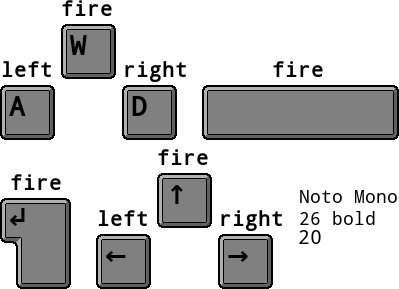
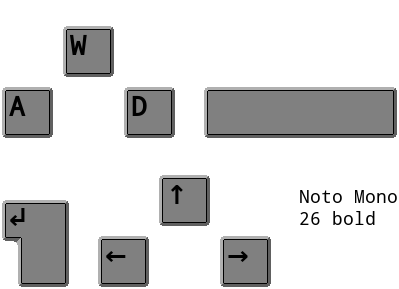
Updated styling to a more colorful experience

diff --git a/game.js b/game.js
@@ -12,7 +12,6 @@
 
 // MAYBE: Increase shooting probability for enemies, when only few are left
 
-
 import {Start} from './start.js';
 import {Engine} from './engine.js';
 import {Highscore} from './highscore.js';
@@ -39,7 +38,7 @@ function Game(options, levels) {
 	this.options = options;
 	this.levels = levels;
 
-	this.version = 'v1.0.1';
+	this.version = 'v1.1.0';
 
 	this.last_time = 0;
 
@@ -49,7 +48,7 @@ function Game(options, levels) {
 	this.frames = 0;
 	this.fps = new Text(
 		'', 2, this.options.total_size.h - 2,
-		Infinity, 'left', '#000000', 10
+		Infinity, 'left', '#ffffff', 10
 	);
 	this.show_fps = true;
 

diff --git a/text.js b/text.js
@@ -17,12 +17,12 @@
  * 		How many seconds until the text becomes inactive
  * @param {string} [alignment='left']
  * 		Text alignment (may be left, right, or center)
- * @param {string} [color='#000000']
+ * @param {string} [color='#ffffff']
  * 		Text color (may be any HTML color string)
  * @param {number} [size=24]
  * 		The font size
  */
-function Text(text, x, y, duration=Infinity, alignment='left', color='#000000', size=24) {
+function Text(text, x, y, duration=Infinity, alignment='left', color='#ffffff', size=24) {
 	this.text = text;
 	this.x = x;
 	this.y = y;

diff --git a/guielement.js b/guielement.js
@@ -45,6 +45,24 @@ function GUI_Element(x, y, type) {
 			);
 			break;
 		}
+		case 'arrow_left': {
+			this.w = 14;
+			this.h = 22;
+			this.sprite = new Sprite(
+				'sprites.png', {w: this.w, h: this.h}, 0,
+				{x: 0, y: 176}, [{x: 0, y: 0}]
+			);
+			break;
+		}
+		case 'arrow_right': {
+			this.w = 14;
+			this.h = 22;
+			this.sprite = new Sprite(
+				'sprites.png', {w: this.w, h: this.h}, 0,
+				{x: 16, y: 176}, [{x: 0, y: 0}]
+			);
+			break;
+		}
 		case 'keys1': {
 			this.w = 399;
 			this.h = 140;

diff --git a/i18n.js b/i18n.js
@@ -35,7 +35,7 @@ const all_strings = {
 		one_player: 'Én spiller',
 		two_players: 'To spillere',
 		level: 'Level ',
-		fire_to_continue: 'Skyt fo å fortsette',
+		fire_to_continue: 'Skyt for å fortsette',
 		you_reached_a: 'Du klarte det til level ',
 		you_reached_b: '!',
 		locale: 'nb-NO'

diff --git a/game.css b/game.css
@@ -1,9 +1,10 @@
 html {
-	height: 95%;
+	height: 100%;
+	overflow: hidden;
 }
 
 body {
-	background-color: grey;
+	background: black bottom url("gfx/bg.png");
 	height: 100%;
 	padding: 0px;
 	margin: 0px;
